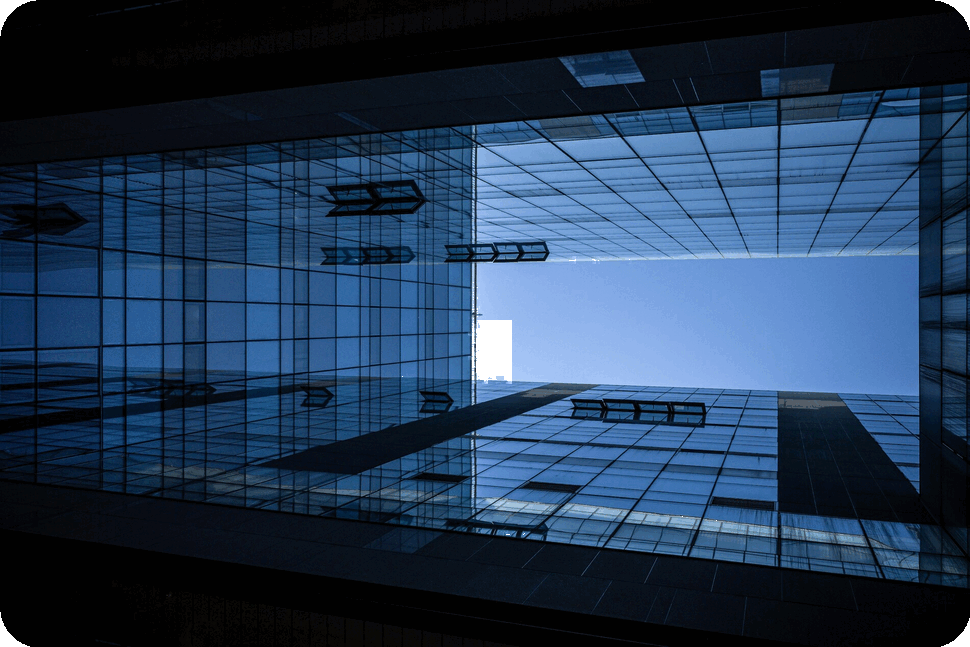
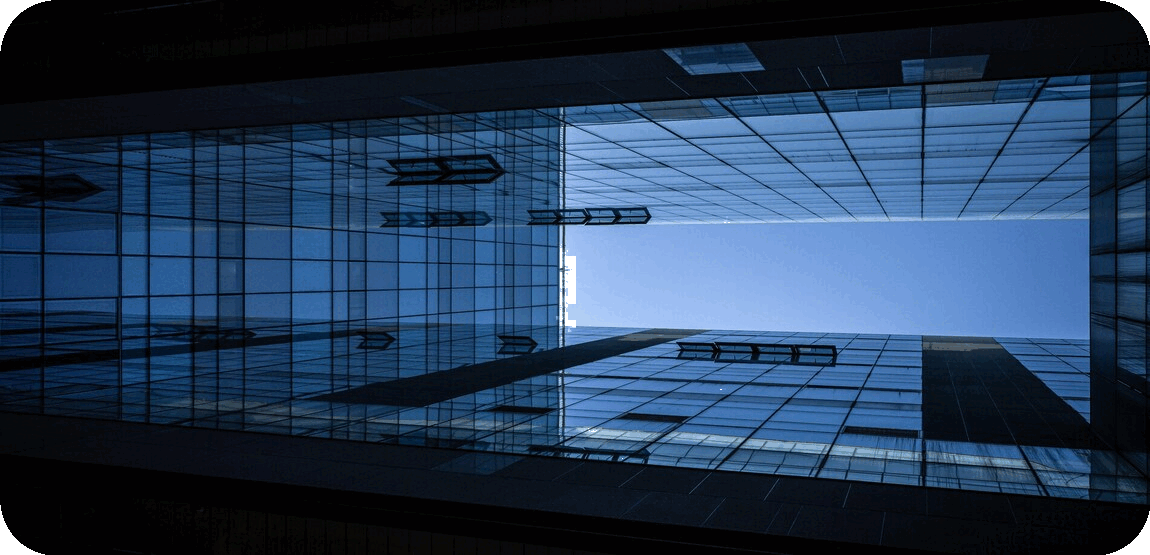
dynamic header image

diff --git a/Event Manager Web App/src/components/Header/Header.js b/Event Manager Web App/src/components/Header/Header.js
@@ -1,0 +1,66 @@
+import React, { useEffect } from 'react';
+import './Header.css';
+
+const Header = () => {
+    useEffect(() => {
+        const images = [
+            '/header_img.png',
+            '/img.png',
+            '/img1.png',
+            '/img2.png',
+            '/img3.png',
+            '/img4.png',
+            '/img5.png',
+            '/img6.png',
+            '/img7.png',
+            '/img8.png'
+        ];
+        let currentImageIndex = 0;
+        const headerElement = document.querySelector('.header');
+
+        const changeBackgroundImage = () => {
+            currentImageIndex = (currentImageIndex + 1) % images.length;
+            headerElement.style.backgroundImage = `url('${images[currentImageIndex]}')`;
+        };
+
+        const intervalId = setInterval(changeBackgroundImage, 3000); // Change image every 3 seconds
+
+        return () => clearInterval(intervalId); // Cleanup interval on component unmount
+    }, []);
+
+    const openNewPage = async () => {
+        let port = 5174; // Initial port number
+        const maxPort = 5184; // Maximum port number to check
+        let urlOpened = false;
+
+        while (port <= maxPort && !urlOpened) {
+            try {
+                const response = await fetch(`http://localhost:${port}`, { method: 'HEAD' });
+                if (response.ok) {
+                    window.open(`http://localhost:${port}`);
+                    urlOpened = true;
+                } else {
+                    port++;
+                }
+            } catch (error) {
+                port++;
+            }
+        }
+
+        if (!urlOpened) {
+            alert('Unable to open the URL. All specified ports are in use.');
+        }
+    };
+
+    return (
+        <div className='header'>
+            <div className='header-contents'>
+                <h2>Your Events Start Here!</h2>
+                <p>Events are exquisite orchestrations of time, space, and human connection, where moments unfold like delicate petals in a blossoming garden of experiences. Each gathering is a tapestry woven with threads of anticipation, excitement, and celebration, creating a symphony of memories that linger in the hearts of attendees. </p>
+                <button onClick={openNewPage}>Add Event</button>
+            </div>
+        </div>
+    );
+};
+
+export default Header;

diff --git a/Event Manager Web App/src/components/Header/Header.css b/Event Manager Web App/src/components/Header/Header.css
@@ -1,10 +1,26 @@
-.header{
+.header {
     height: 34vw;
     margin: 30px auto;
-    background: url('/header_img.png') no-repeat;
-    background-size:contain;
+    background: url('/header_img.png') no-repeat center center;
+    background-size: contain;
     position: relative;
+    animation: changeBackground 50s infinite; /* 50s for 9 images at ~5.56s each */
 }
+
+@keyframes changeBackground {
+    0% { background-image: url('/header_img.png'); }
+    11.11% { background-image: url('/img.png'); }
+    22.22% { background-image: url('/img1.png'); }
+    33.33% { background-image: url('/img2.png'); }
+    44.44% { background-image: url('/img3.png'); }
+    55.56% { background-image: url('/img4.png'); }
+    66.67% { background-image: url('/img5.png'); }
+    77.78% { background-image: url('/img6.png'); }
+    88.89% { background-image: url('/img7.png'); }
+    100% { background-image: url('/img8.png'); }
+}
+
+
 .header-contents{
     position: absolute;
     display: flex;

diff --git a/Event Manager Web App/src/assets/assets.js b/Event Manager Web App/src/assets/assets.js
@@ -1,6 +1,17 @@
 import basket_icon from './basket_icon.png'
 import logo from './logo.png'
 import header_img from './header_img.png'
+import img from './img.png'
+import img1 from './img1.png'
+import img2 from './img2.png'
+import img3 from './img3.png'
+import img4 from './img4.png'
+import img5 from './img5.png'
+import img6 from './img6.png'
+import img7 from './img7.png'
+import img8 from './img8.png'
+
+
 import search_icon from './search_icon.png'
 import menu_1 from './menu_1.png'
 import menu_2 from './menu_2.png'
@@ -60,11 +71,21 @@ import order_icon from './order_icon_4.png'
 import parcel_icon from './parcel_icon_4.png'
 import profile_image from './profile_image_4.png'
 
+
 export const assets = {
     lock,
     logo,
     basket_icon,
     header_img,
+    img,
+    img1,
+    img2,
+    img3,
+    img4,
+    img5,
+    img6,
+    img7,
+    img8,
     search_icon,
     rating_starts,
     add_icon_green,
